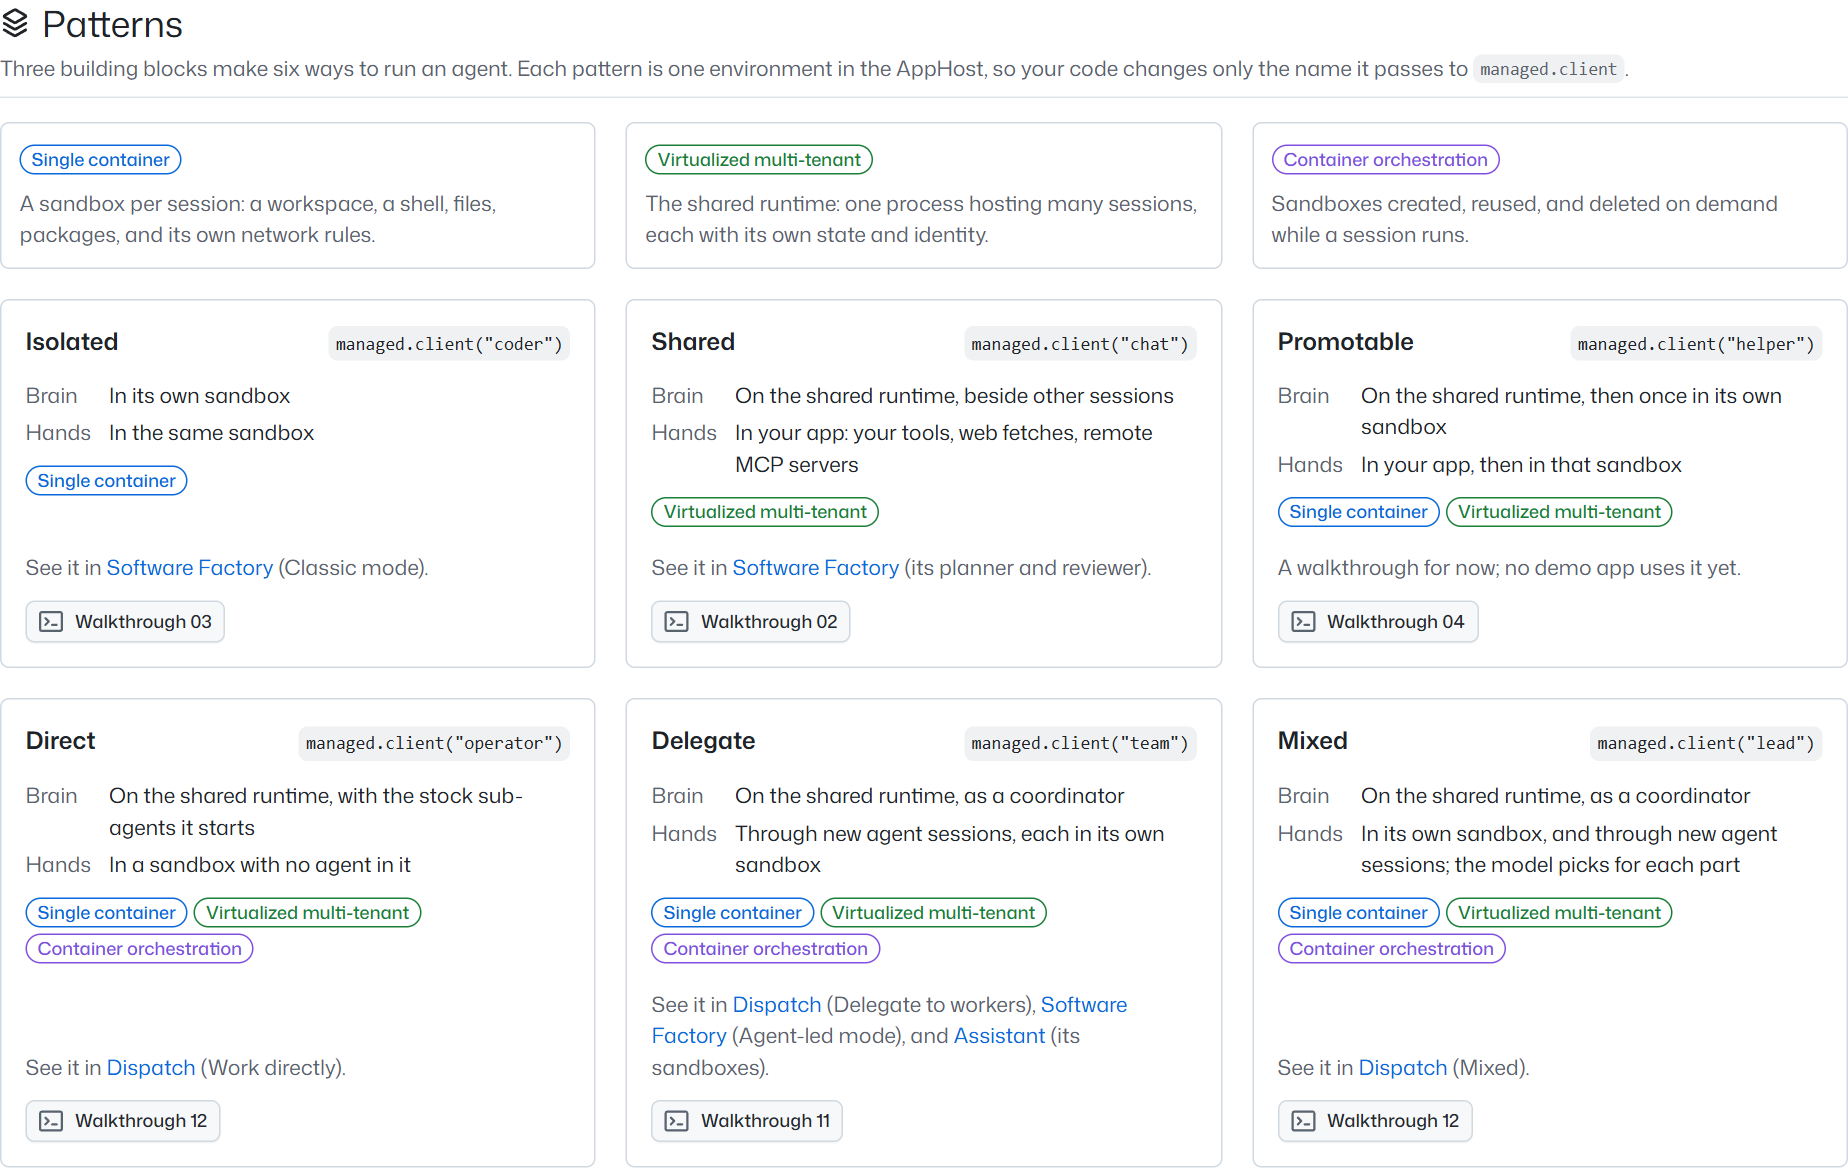
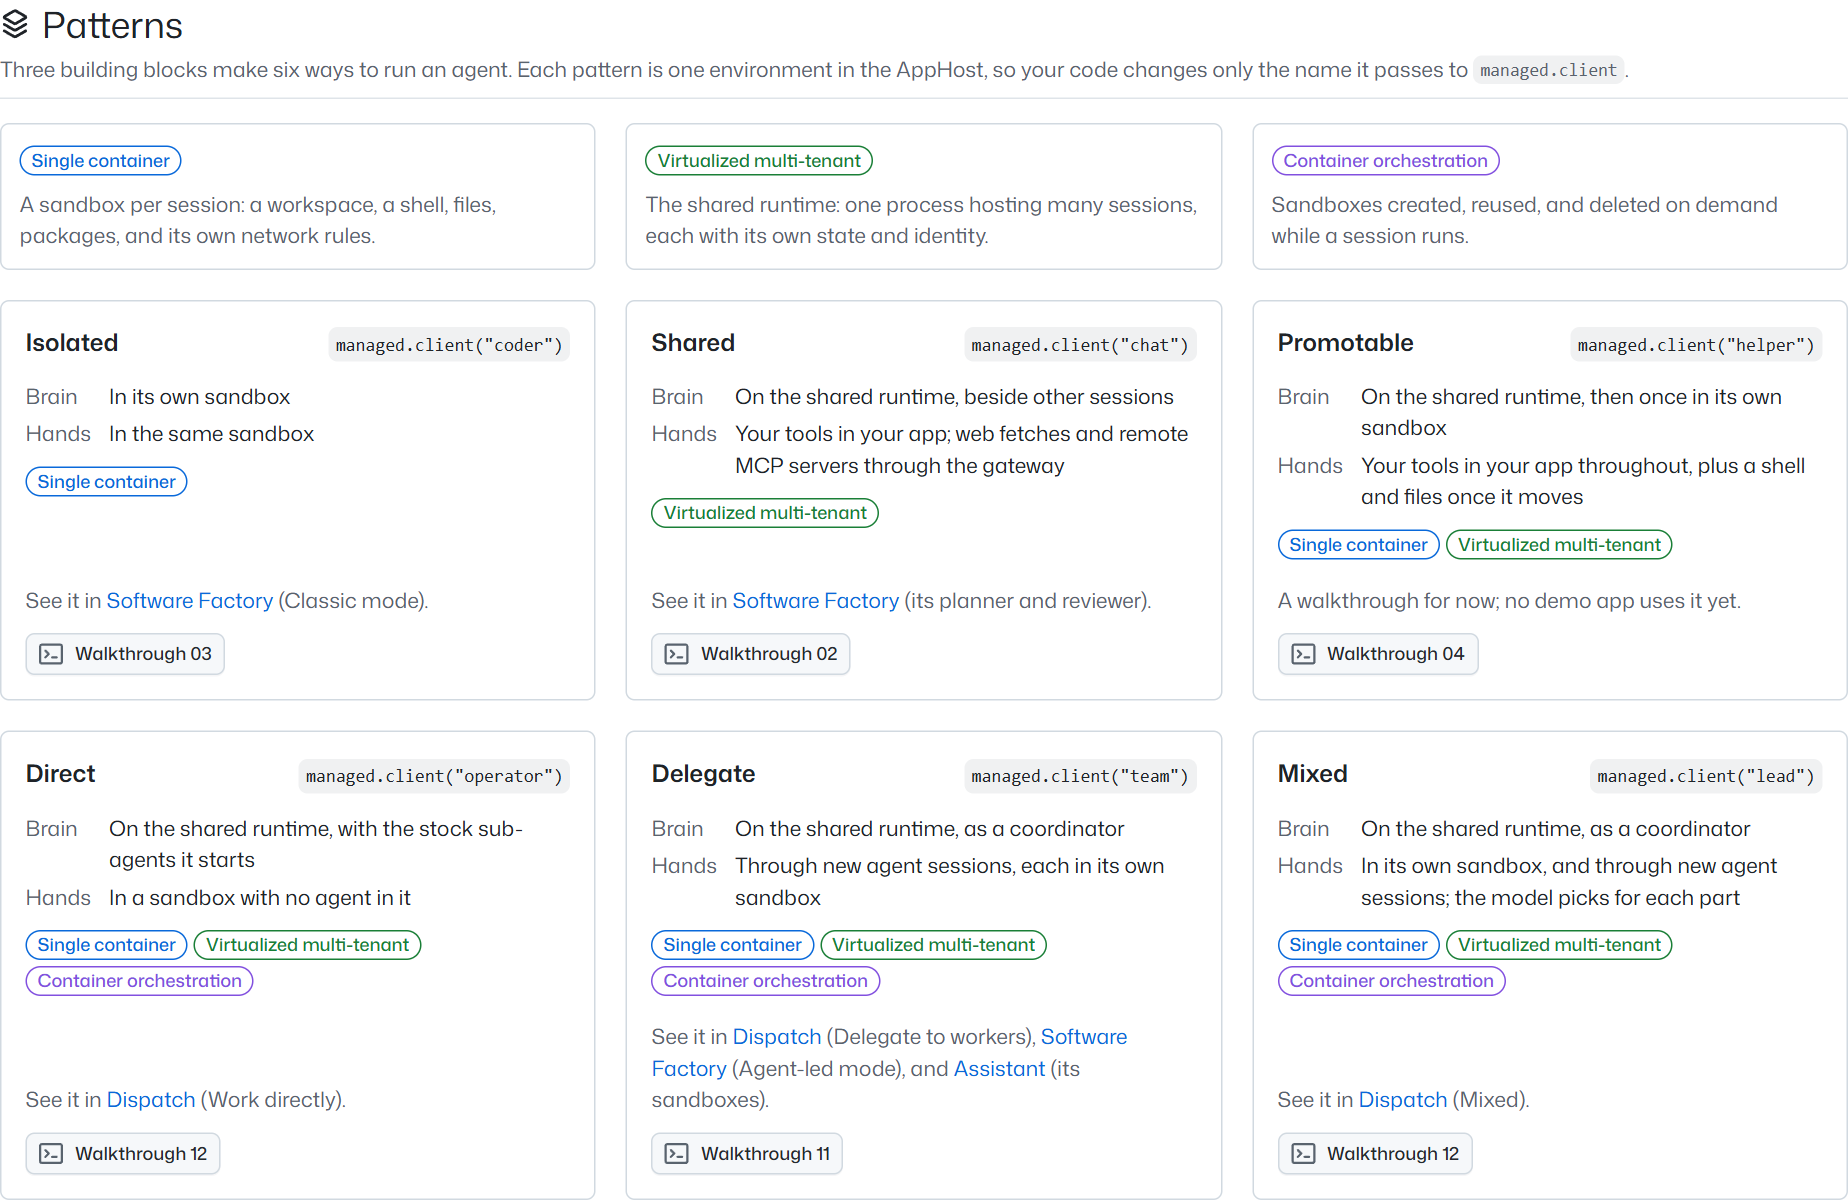
docs, gallery: address Astra review of the patterns pages
Web fetches and remote MCP servers go through the gateway, not the app.
A promoted session keeps its own vaults and network rules, narrowed by the
target's. Direct coordinators have no worker tools.

diff --git a/demos/gallery/src/shared/catalog.ts b/demos/gallery/src/shared/catalog.ts
@@ -165,7 +165,7 @@ export const PATTERNS: readonly Pattern[] = [
     id: "shared",
     title: "Shared",
     brain: "On the shared runtime, beside other sessions",
-    hands: "In your app: your tools, web fetches, remote MCP servers",
+    hands: "Your tools in your app; web fetches and remote MCP servers through the gateway",
     blocks: ["multi-tenant"],
     environment: "chat",
     settings: ['type: "shared"'],
@@ -176,7 +176,7 @@ export const PATTERNS: readonly Pattern[] = [
     id: "promotable",
     title: "Promotable",
     brain: "On the shared runtime, then once in its own sandbox",
-    hands: "In your app, then in that sandbox",
+    hands: "Your tools in your app throughout, plus a shell and files once it moves",
     blocks: ["multi-tenant", "container"],
     environment: "helper",
     settings: ['type: "promotable"', 'promoteTo: "coder"'],

diff --git a/docs/concepts/patterns.md b/docs/concepts/patterns.md
@@ -51,8 +51,8 @@ runs.
 | Pattern | Its brain runs | Its hands act | Built from | Declare it |
 | --- | --- | --- | --- | --- |
 | **Isolated** | In its own sandbox | In the same sandbox | Container | `{ type: "isolated" }` |
-| **Shared** | On the shared runtime, beside other sessions | In your app: your tools, web fetches, remote MCP servers | Multi-tenant | `{ type: "shared" }` |
-| **Promotable** | On the shared runtime, then once in its own sandbox | In your app, then in that sandbox | Multi-tenant, then a container | `{ type: "promotable", promoteTo: "coder" }` |
+| **Shared** | On the shared runtime, beside other sessions | Your tools in your app; web fetches and remote MCP servers through the gateway | Multi-tenant | `{ type: "shared" }` |
+| **Promotable** | On the shared runtime, then once in its own sandbox | Your tools in your app throughout, plus a shell and files once it moves | Multi-tenant, then a container | `{ type: "promotable", promoteTo: "coder" }` |
 | **Direct** | On the shared runtime, with the stock sub-agents it starts | In a sandbox with no agent in it | All three | `{ type: "orchestrator", workers: ["coder"], execution: "direct" }` |
 | **Delegate** | On the shared runtime, as a coordinator | Through new agent sessions, each in its own sandbox | All three | `{ type: "orchestrator", workers: ["coder"] }` |
 | **Mixed** | On the shared runtime, as a coordinator | In its own sandbox, and through new agent sessions in theirs; the model picks for each part | All three | `{ type: "orchestrator", workers: ["coder"], execution: "mixed" }` |
@@ -106,9 +106,10 @@ flowchart TD
 
 - **The same code.** `managed.client("<environment>")` returns a stock `CopilotClient`. Changing the pattern changes
   the environment name, not your code.
-- **The same sandbox, whatever created it.** A sandbox gets its environment's image, size, setup, network rules,
-  vaults, and idle timeout, whether a session was placed in it, moved into it, uses it as hands, or runs in it as a
-  worker.
+- **The same sandboxes, and permissions that never broaden.** Every sandbox gets its environment's image, size, and
+  setup, whether a session was placed in it, moved into it, uses it as hands, or runs in it as a worker. Network rules
+  and vaults only ever narrow: a worker or hands sandbox gets its environment's, and a promoted session keeps the ones
+  it started with, narrowed by its target's ([promotion](promotion.md)).
 - **The same controls.** Your `onPermissionRequest` approves the moves that cost or act: a promotion, a new worker, a
   command in a hands sandbox. The [operator console](local-and-azure.md#watch-it-run) and
   [Copilot CLI](copilot-cli.md) show and join sessions of every pattern.

diff --git a/docs/concepts/environments.md b/docs/concepts/environments.md
@@ -26,7 +26,7 @@ The sandbox IDs come from a live run: two `coder` sessions created by one client
 | `shared` | In the one shared runtime, next to other sessions | Your app's tools, web fetches, and remote MCP servers; no shell, no files | Chat agents, assistants, high volume |
 | `isolated` | In its own new sandbox | A shell, files, packages, git, plus your app's tools | Coding agents, builds, data work |
 | `promotable` | Shared at first, then once in its own sandbox | Shared tools, then sandbox tools after the move | Chats that sometimes need to run code |
-| `orchestrator` | A coordinator on the shared runtime. Its `execution` setting picks how it works: it starts workers, each in its own sandbox (`delegate`, the default), acts in a sandbox itself (`direct`), or does both (`mixed`) | Tools to start, message, wait for, and stop workers; with `direct` or `mixed`, `bash`, `view`, `create`, and `edit` acting on its own sandbox | Jobs with parts that can run in parallel, and harnesses that must not run code on their host |
+| `orchestrator` | A coordinator on the shared runtime. Its `execution` setting picks how it works: it starts workers, each in its own sandbox (`delegate`, the default), acts in a sandbox itself (`direct`), or does both (`mixed`) | With `delegate` or `mixed`, tools to start, message, wait for, and stop workers; with `direct` or `mixed`, `bash`, `view`, `create`, `edit`, and the other built-in shell and file tools, acting on its own sandbox | Jobs with parts that can run in parallel, and harnesses that must not run code on their host |
 
 Four types and three execution styles make the six [patterns](patterns.md): isolated, shared, promotable, direct,
 delegate, and mixed.

diff --git a/README.md b/README.md
@@ -119,8 +119,8 @@ flowchart LR
 | Pattern | Its brain runs | Its hands act | Good for |
 | --- | --- | --- | --- |
 | **Isolated** | In its own sandbox | In the same sandbox: a workspace, a shell, your packages, your network rules | Coding agents, builds, data work |
-| **Shared** | On the shared runtime, beside other sessions | In your app: your tools, web fetches, remote MCP servers | Chat agents and assistants at volume |
-| **Promotable** | On the shared runtime, then once in its own sandbox, as the same session | In your app, then in that sandbox | Chats that sometimes need to run code |
+| **Shared** | On the shared runtime, beside other sessions | Your tools in your app; web fetches and remote MCP servers through the gateway | Chat agents and assistants at volume |
+| **Promotable** | On the shared runtime, then once in its own sandbox, as the same session | Your tools in your app throughout, plus a shell and files once it moves | Chats that sometimes need to run code |
 | **Direct** | On the shared runtime, with the stock sub-agents it starts | In a sandbox with no agent in it | Harnesses with their own planning that must not run code on their host |
 | **Delegate** | On the shared runtime, as a coordinator | Through new agent sessions, each in its own sandbox | Parallel, long-running parts: factories, research |
 | **Mixed** | On the shared runtime, as a coordinator | In its own sandbox, and through new agent sessions; the model picks for each part | One conversation with quick work and big work |
